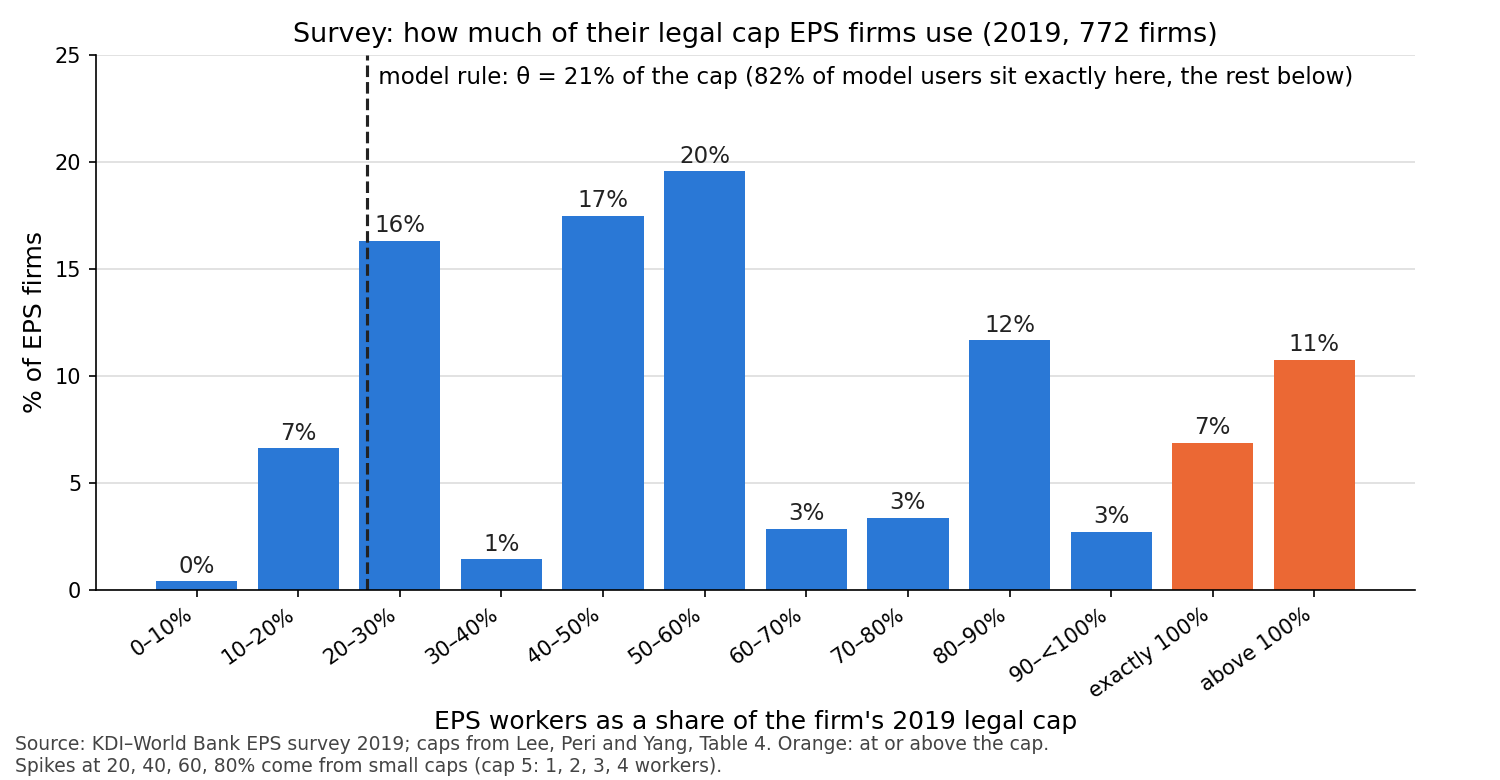
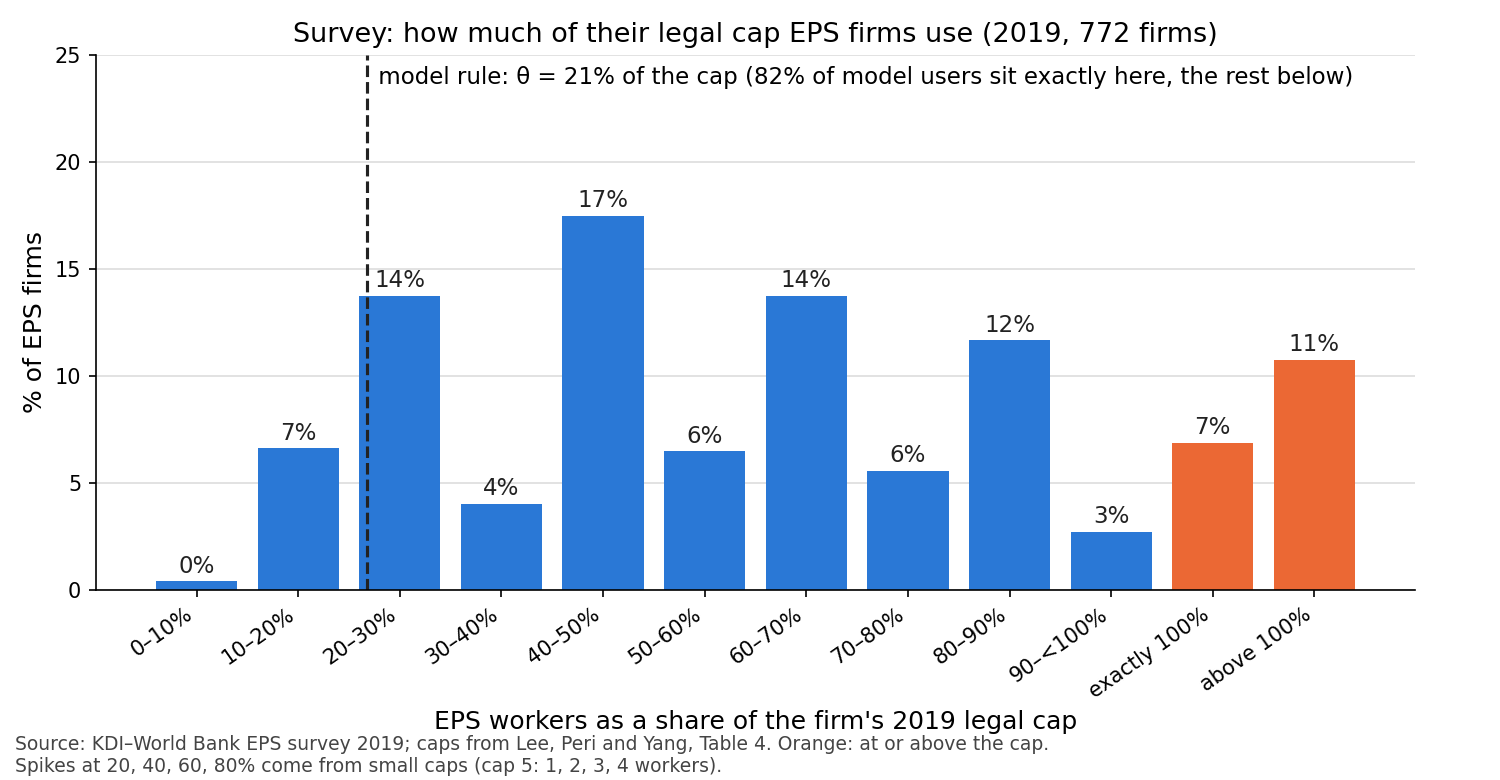
Fix survey cap-use bins: floating-point edges put firms at exactly 30/60/70% in the bin below
Summary statistics (mean 62%, median 60%, 18% at or above the cap) were computed directly and are unchanged.

Changed region(s): [[0.4293, 0.1846, 0.644, 0.6769], [0.2147, 0.2769, 0.3067, 0.4], [0.3067, 0.6154, 0.368, 0.7385]]

diff --git a/bunching/cap_use_hist.py b/bunching/cap_use_hist.py
@@ -20,7 +20,7 @@ cap = np.select([listed <= 5, listed <= 10, listed <= 30, listed <= 50, listed <
                 [5, 7, 10, 12, 15, 20, 25], default=30)
 u = (eps / cap)[eps >= 1].dropna()
 
-cnt = np.histogram(np.clip(u, 0, 1.0001), bins=np.r_[np.arange(0, 1.0001, 0.1)[:-1], 0.99999, 1.00001, np.inf])[0]
+cnt = np.histogram(np.clip(u, 0, 1.0001), bins=[0, .1, .2, .3, .4, .5, .6, .7, .8, .9, .99999, 1.00001, np.inf])[0]   # exact edges: a firm at 60% falls in 60–70
 # bins: 0-0.1, ..., 0.8-0.9, 0.9-<1, exactly 1, above 1
 labels = [f"{a:.0f}–{a + 10:.0f}%" for a in range(0, 90, 10)] + ["90–<100%", "exactly 100%", "above 100%"]
 share = cnt / len(u)
